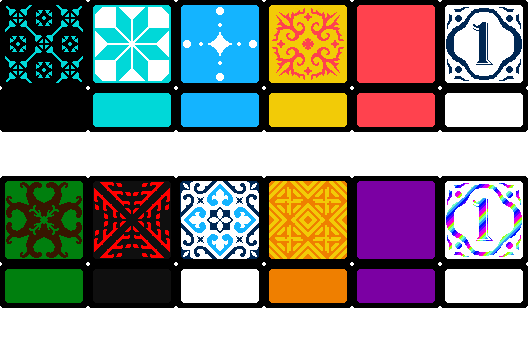
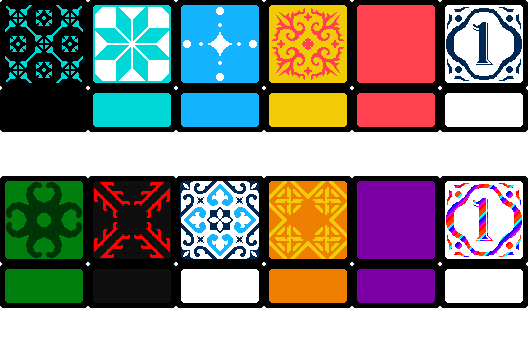
improve tiles a bit

diff --git a/client.js b/client.js
@@ -206,7 +206,7 @@
 
         void main() {
             vec4 color = texture2D(uTexture, vTexcoord);
-            if (color.r == 0.0 && color.g == 0.0 && color.b == 0.0) {
+            if (color.r <= 0.05 && color.g <= 0.05 && color.b <= 0.05) {
                 color.r = vRecolor.r;
                 color.g = vRecolor.g;
                 color.b = vRecolor.b;
@@ -671,7 +671,7 @@
             }
             var threed = k == 'tiles';
             drawCalls.forEach((dc, i) => {
-                calculatePosition(dc[4], dc[5], dc[6], dc[7], dc[8], dc[9], threed, dc[10], i == 0);
+                calculatePosition(dc[4], dc[5], dc[6], dc[7], dc[8], dc[9], threed, dc[11], i == 0);
             });
             gl.bufferData(gl.ARRAY_BUFFER, new Float32Array(positions), gl.STATIC_DRAW);
             gl.vertexAttribPointer(programInfo.attribLocations.vertexPosition, 3, gl.FLOAT, false, 0, 0);
@@ -1546,14 +1546,18 @@
 
         tiles.forEach(t => {
             if (t.display) {
-                drawSprite('tiles', t.colour, 0, t.display.x, t.display.y, t.display.w, t.display.w, t.display.a || 0, !!t.display.moving ? 0.49 : 0.5, {
+                var color = null;
+
+                if (t.position == highlightedPosition && t.colour == highlightedColour) {
+                    color = 'green';
+                }
+
+                drawSprite('tiles', t.colour, 0, t.display.x, t.display.y, t.display.w, t.display.w, t.display.a || 0, !!t.display.moving ? 0.49 : 0.5, color, {
                     a2: t.display.a2 || 0,
                     a3: t.display.a3 || 0,
                 });
 
-                if (t.position == highlightedPosition && t.colour == highlightedColour) {
-                    drawSprite('highlight', 0, 0, t.display.x, t.display.y, t.display.w, t.display.w, t.display.a || 0, 0.45, 'green');
-                }
+                
             }
         });
 
